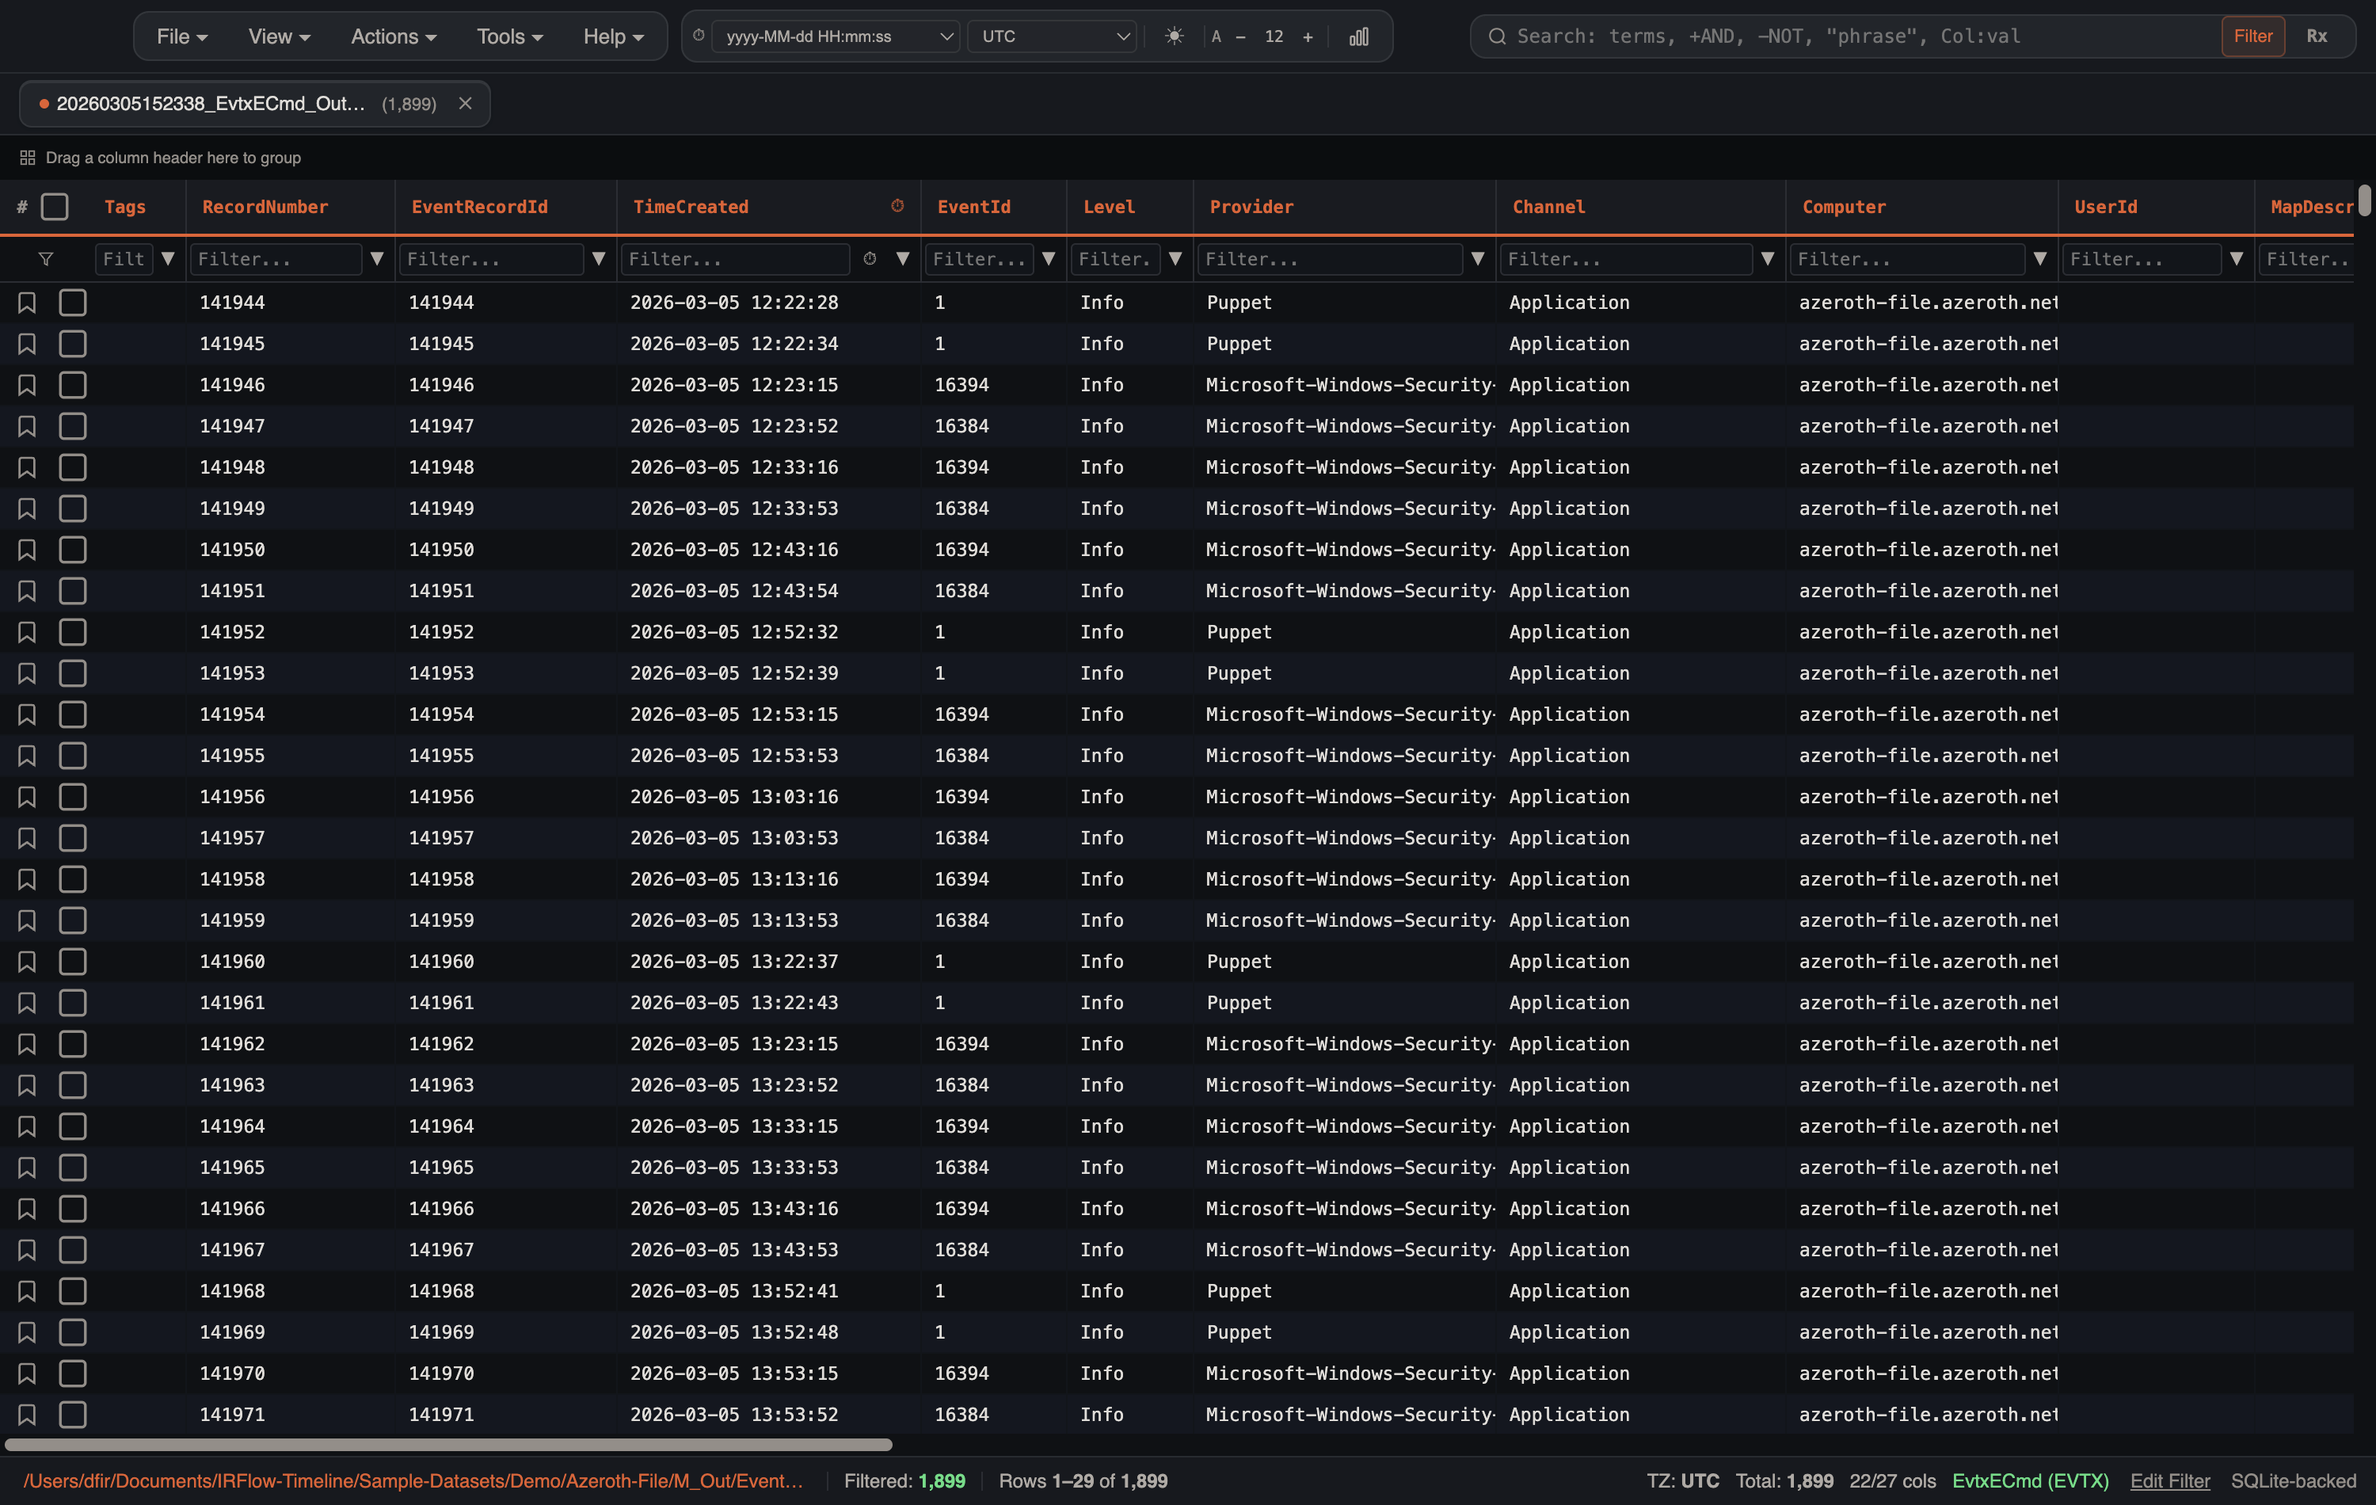
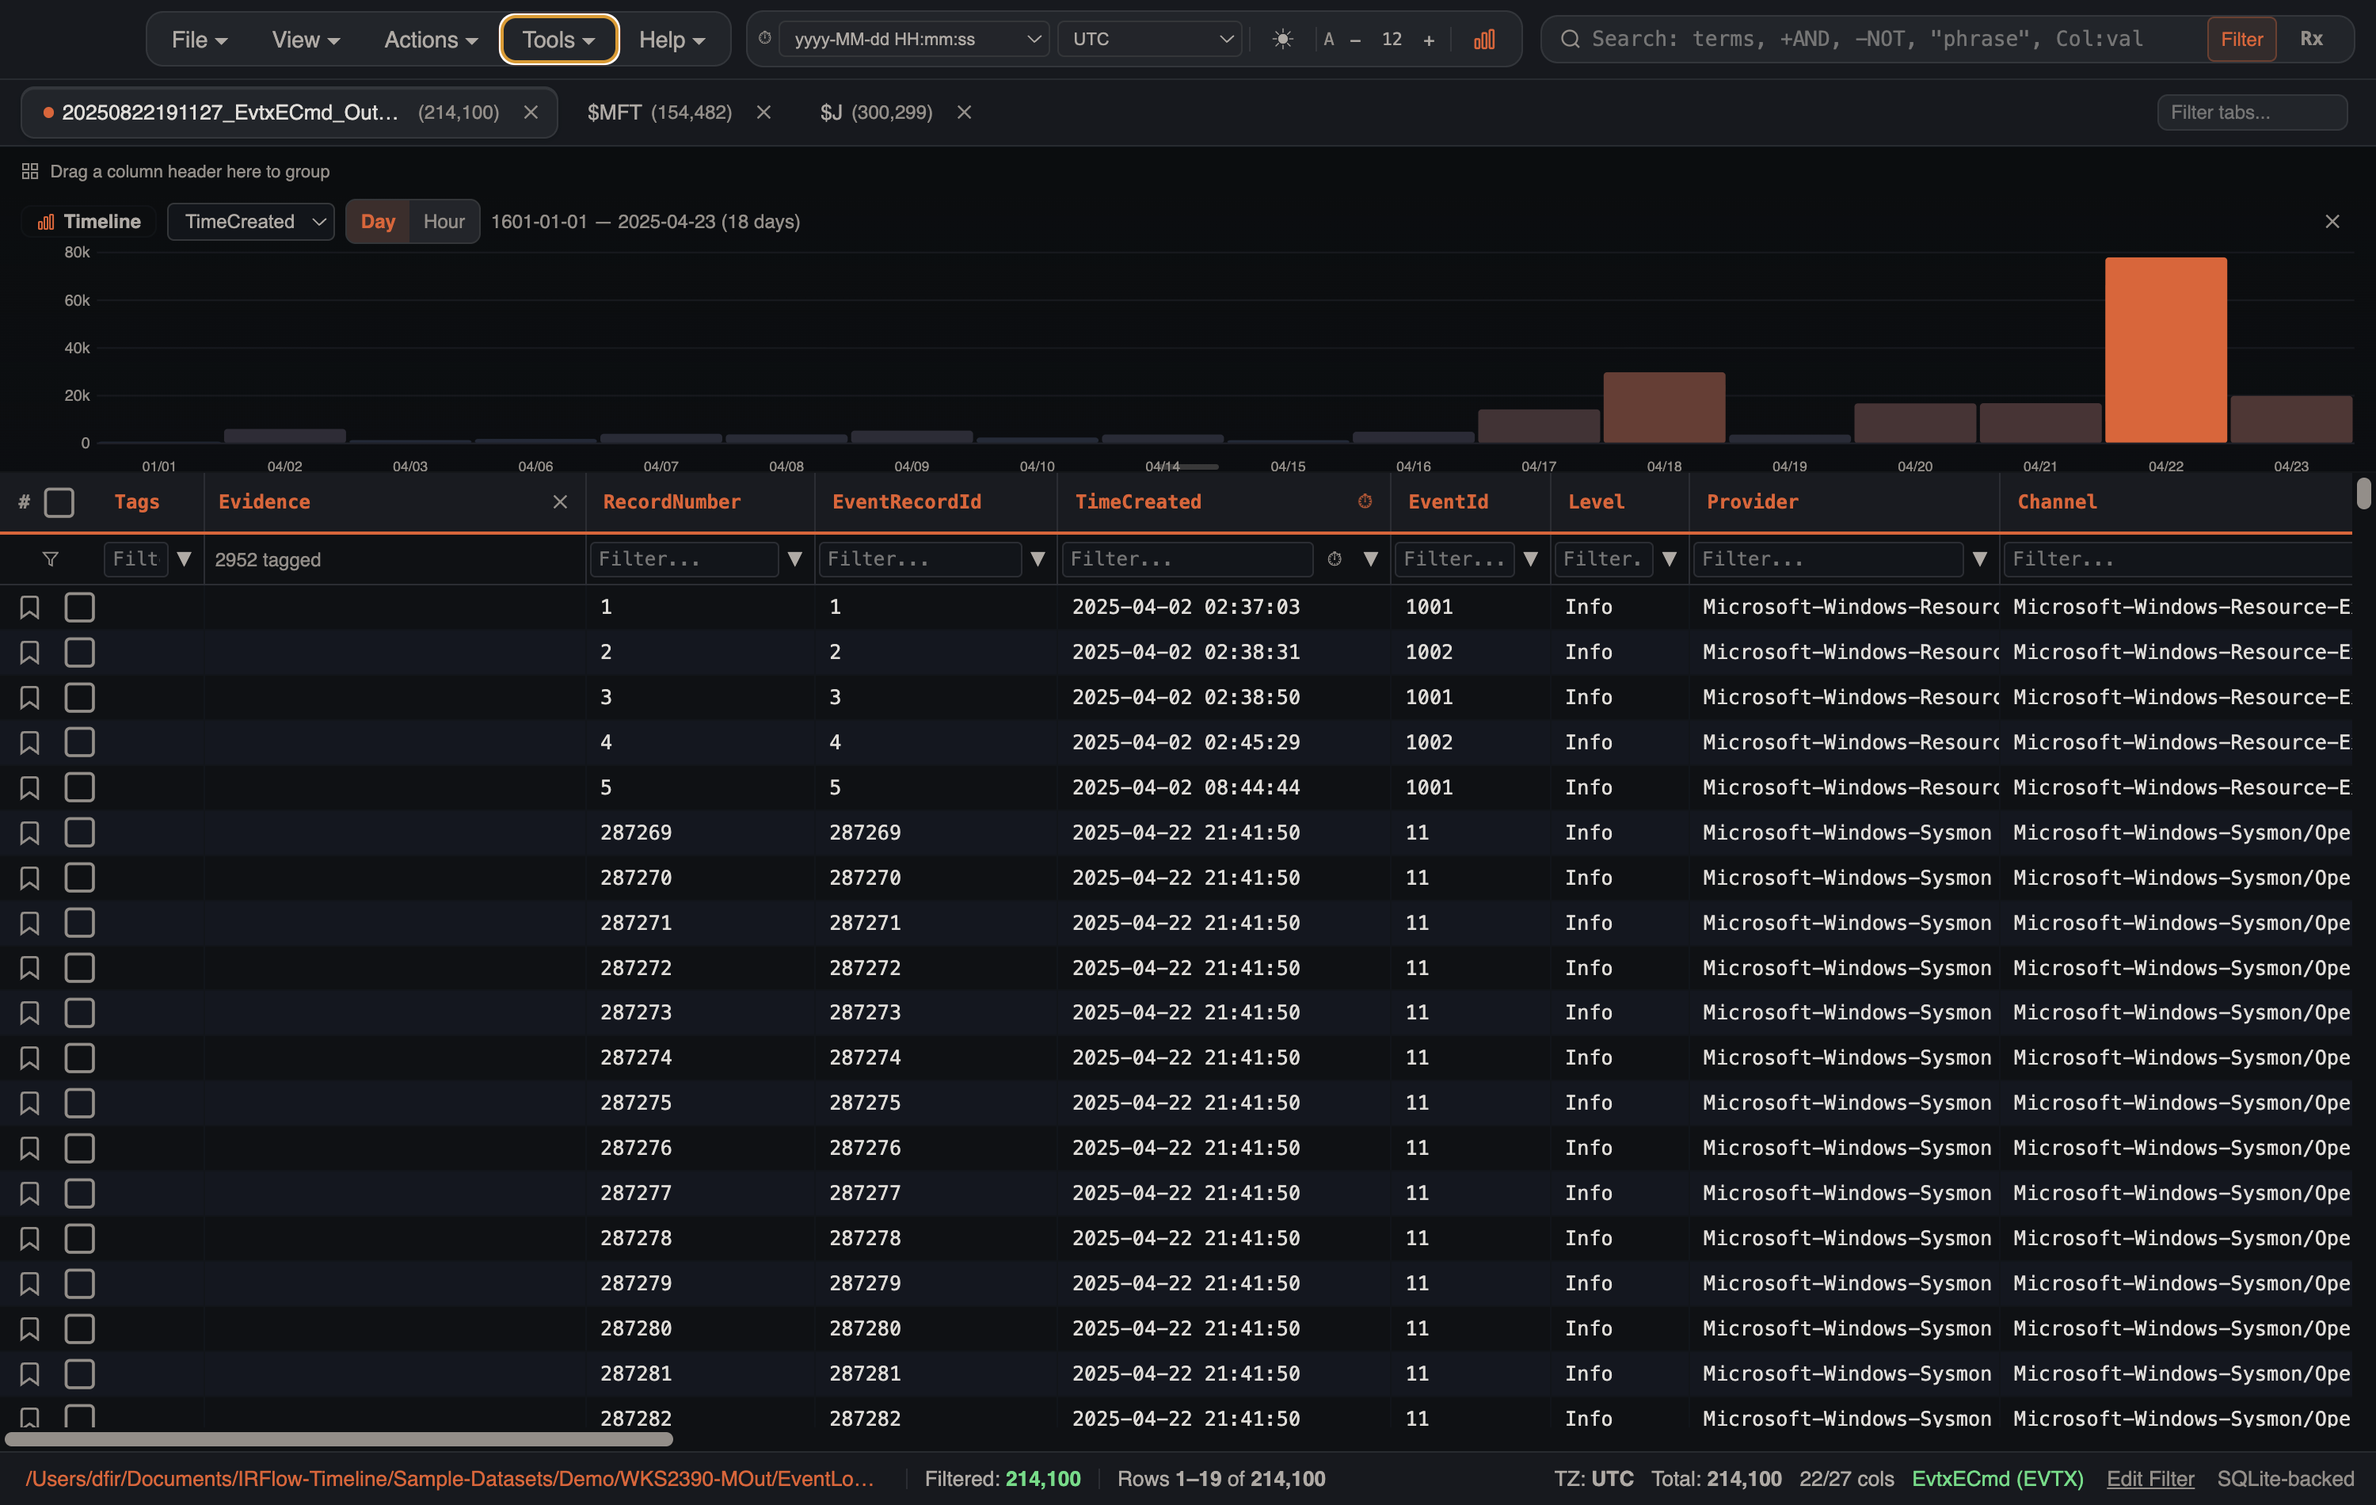
docs: recapture feature screenshots from WKS2390, U42, and Azeroth demos
Import the WKS2390 EvtxECmd timeline plus U42 $MFT/$J and replace grid,
Process Inspector, Lateral Movement, Persistence, Sigma, burst, coverage,
and NTFS shots with live results from those collections.

diff --git a/docs/features/lateral-movement.md b/docs/features/lateral-movement.md
@@ -28,7 +28,7 @@ You can also start from **File → Open Triage Collection…**, which pre-select
 
 ## Detection Rules
 
-![Lateral Movement Tracker detection rules configuration showing 15 built-in rules across RDP, Security, Privilege, Session, and RMM categories](/dfir-tips/Lateral-Movement-Detection-Rules.png)
+![Lateral Movement Tracker configuration on WKS2390 — Analyze and RDP-focused scan options before the run](/dfir-tips/Lateral-Movement-Detection-Rules.png)
 
 The tracker uses a configurable rules system with **15 built-in detection rules** across five categories. Each rule can be individually toggled on or off.
 
@@ -202,7 +202,7 @@ Click any host in the Network Graph to see that host's individual telemetry cove
 
 The tracker has seven sub-tabs (Exec Sessions and Findings only appear when detections are present). The UI tab order is: **Network Graph**, **RDP Sessions**, **Accounts**, **Chains**, **Exec Sessions**, **Connections**, **Findings**. The sections below describe each tab; numbering is independent of the UI ordering.
 
-![Lateral Movement Tracker sub-tabs including Network Graph, RDP Sessions, Accounts, Chains, Exec Sessions, Connections, and Findings with Telemetry Coverage above](/dfir-tips/Lateral-Movement-Tabs.png)
+![Lateral Movement Tracker Accounts tab on WKS2390 — 250 identities scored with successes, failures, and suspicion reasons](/dfir-tips/Lateral-Movement-Tabs.png)
 
 ### 1. Network Graph
 
@@ -210,7 +210,7 @@ The interactive force-directed visualization described above.
 
 ### 2. Findings
 
-![Lateral Movement Tracker Findings tab showing MITRE ATT&CK-mapped attack pattern detections with severity badges](/dfir-tips/Lateral-Movement-Findings.png)
+![Lateral Movement Tracker Findings on WKS2390 — LSASS access, brute force, credential compromise, and WMI persistence](/dfir-tips/Lateral-Movement-Findings.png)
 
 The Findings tab displays automated attack pattern detections with MITRE ATT&CK mapping. Each finding is a card showing severity, MITRE technique badge (clickable — links to attack.mitre.org), title, description, source/target hosts, time range, and event count.
 

diff --git a/docs/features/sigma-detection.md b/docs/features/sigma-detection.md
@@ -24,7 +24,7 @@ The modal has three top-level views, selectable from the toggle at the top:
 - **Previous Scans** — persisted scan history you can reopen
 - **Detection Settings** — engine maintenance, rule sources, and advanced defaults
 
-![Sigma Scan configuration wizard showing the New Scan / Previous Scans / Detection Settings toggle, the three-step Configure → Scan → Findings flow, the EVTX Folder / EvtxECmd Output Files / Current Timeline Tab scan targets, and a green Scan Ready panel summarizing target, engine, severity, and rule counts](/dfir-tips/Sigma-Scan-Home.png)
+![Sigma Scan ready on the WKS2390 EvtxECmd tab — Current Timeline Tab target, JS Sigma engine, 4,916 cached rules, 214,100 rows](/dfir-tips/Sigma-Scan-Home.png)
 
 The wizard walks through three steps — **Configure** (target + detection profile), **Scan** (progress), and **Findings** (results) — with a **Scan Ready** panel summarizing the chosen target, engine, severity, statuses, rule count, and row cap before you run.
 
@@ -153,7 +153,7 @@ A keyword/regex hunt over raw EVTX events, available in the wizard's **Setup det
 
 After a scan completes, results open into the **Look Here First** triage dashboard.
 
-![Sigma Scan triage dashboard showing 16 rules matched and 120 events flagged, with Dashboard / Findings / Timeline / Report tabs, Critical-High / Affected Hosts / First Seen / Last Seen summary cards, a ranked Look Here First findings list with Open Exact Hits / Tag / Bookmark / Mark Reviewed / Mark False Positive actions, Top Rules by Hits and Affected Hosts panels, and ATT&CK techniques, tactics, rare hosts, rare users, and rare processes panels](/dfir-tips/Sigma-Scan-Dashboard.png)
+![Sigma Scan triage on WKS2390 — 4 rules matched, 2,398 events flagged, Look Here First with Proc Exec and Defender hits](/dfir-tips/Sigma-Scan-Dashboard.png)
 
 The results screen has **Dashboard**, **Findings**, **Timeline**, and **Report** tabs, with export options (Export Timeline CSV, Export JSON, Export Report) and **Open All Results as Tab**.
 

diff --git a/docs/features/ntfs-analysis.md b/docs/features/ntfs-analysis.md
@@ -84,13 +84,13 @@ Each detection includes the file path, both SI and FN timestamps, the delta, and
 
 Timestomped files are auto-tagged with `Timestomp Indicator` for filtering and reporting.
 
-![Timestomping Detection results with SI vs FN deltas, severity scores, and Timestomp Indicator tags](/dfir-tips/MFT-Timestomp-Indicator.png)
+![Timestomp Indicator Review on the U42 $MFT — 46,204 indicators, 5,757 critical, bulk-stomp clusters](/dfir-tips/MFT-Timestomp-Indicator.png)
 
 ## File Activity Heatmap
 
 Visualizes MFT file creation and modification activity as a calendar heatmap, revealing temporal patterns in filesystem activity.
 
-![File Activity Heatmap showing hourly and daily buckets with day-of-week activity matrix](/dfir-tips/MFT-File-Activity-Heatmap.png)
+![File Activity Heatmap on the U42 $MFT — 116,249 creations/modifications and a 2024-11-12 burst window](/dfir-tips/MFT-File-Activity-Heatmap.png)
 
 Open via **Tools → Platforms → Windows → Master File Table → File Activity Heatmap** after importing a raw `$MFT` tab.
 
@@ -106,7 +106,7 @@ This is useful for identifying after-hours activity, automated processes (consis
 
 Scans MFT records for Alternate Data Streams (ADS), which attackers use to hide data, store payloads, or bypass detection.
 
-![ADS Analyzer dashboard with Zone.Identifier, suspicious ADS, and executable stream categories](/dfir-tips/MFT-ADS-Analyzer.png)
+![ADS Analyzer on the U42 $MFT — 128 ADS files, 101 Zone.Identifier downloads, amcache.py MOTW hit](/dfir-tips/MFT-ADS-Analyzer.png)
 
 Open via **Tools → Platforms → Windows → Master File Table → ADS Analyzer** after importing a raw `$MFT` tab with ADS-related columns.
 

diff --git a/docs/features/process-tree.md b/docs/features/process-tree.md
@@ -6,7 +6,7 @@ description: Process Inspector — parent-child process trees, multi-pass detect
 
 The Process Inspector builds parent-child process trees from **Sysmon Event ID 1** and **Windows Security Event ID 4688**, then scores execution chains with chain rules, standalone detections, prevalence, binary trust, lifetime, injection, and privilege-use correlation. Results open as **Story / Triage / Hunt / Graph / Raw** views plus a **Rules** health report, with analyst suppressions, custom rules, and one-click pivots into the main grid and other IRFlow features.
 
-![Process Inspector configuration — tree-ready mapping, detection technique groups, Sysmon and Security coverage, and Build Tree](/dfir-tips/Process-Tree-Analyzer-Sysmon.png)
+![Process Inspector Story view on WKS2390 Sysmon — 81 stories, GUID-linked tree, cmd.exe and DumpIt.exe chains](/dfir-tips/Process-Tree-Analyzer-Sysmon.png)
 
 ## Opening the Process Inspector
 

diff --git a/docs/features/persistence-analyzer.md b/docs/features/persistence-analyzer.md
@@ -6,7 +6,7 @@ description: Persistence Analyzer — 36 EVTX and 33 registry detection rules wi
 
 The Persistence Analyzer automatically scans your timeline data for Windows persistence mechanisms, scoring each finding by risk level and organizing results by category. It supports both EVTX event logs and registry exports (RECmd CSV and similar), with **69 built-in rule definitions** — **36 EVTX event-log rules** and **33 registry key-family rules** — across services, scheduled tasks, WMI subscriptions, autorun keys, and related locations.
 
-![Persistence Analyzer showing 8648 findings in Timeline view with severity scores, service installations, and category filtering](/dfir-tips/Persistence-Analyzer.png)
+![Persistence Analyzer on WKS2390 — 763 incidents, 5 critical, grouped alerts with MITRE T1547.001 / T1053.005](/dfir-tips/Persistence-Analyzer.png)
 
 ## Opening the Persistence Analyzer
 

diff --git a/docs/dfir-tips/lateral-movement-tracing.md b/docs/dfir-tips/lateral-movement-tracing.md
@@ -100,7 +100,7 @@ Sort stacking results in ascending order to surface values that appear only once
 
 Navigate to **Tools → Platforms → Windows → Lateral Movement Tracker** to open the [Lateral Movement Tracker](/features/lateral-movement). The tracker automatically parses your logon events and builds an interactive network graph.
 
-![Lateral Movement Tracker network graph showing host-to-host logon connections with RDP, Network, and Interactive connection types](/dfir-tips/lateral-movement-tracker.png)
+![Lateral Movement Tracker network graph on WKS2390 — HYPSQDB / WKSIT01 outliers pivoting to WKS2390](/dfir-tips/lateral-movement-tracker.png)
 
 In the graph view:
 

diff --git a/docs/features/virtual-grid.md b/docs/features/virtual-grid.md
@@ -6,7 +6,7 @@ description: Virtual scrolling data grid with SQLite pagination — view and int
 
 The data grid is the primary interface for viewing and interacting with timeline data. It uses virtual scrolling backed by SQLite pagination to handle millions of rows without performance degradation.
 
-![Virtual Grid displaying EvtxECmd timeline data with the File / View / Actions / Tools / Help menu capsule and sortable columns](/dfir-tips/Virtual-Grid.png)
+![Virtual Grid on the WKS2390 EvtxECmd timeline (214,100 rows) with histogram, $MFT and $J tabs, and the File / View / Actions / Tools / Help capsule](/dfir-tips/Virtual-Grid.png)
 
 ## Menu Bar
 

diff --git a/docs/features/log-source-coverage.md b/docs/features/log-source-coverage.md
@@ -6,7 +6,7 @@ description: Log source coverage map — Gantt-style visualization of evidence c
 
 Log Source Coverage provides a Gantt-style visualization of which log sources are present across your timeline, their time spans, and event counts — helping you identify collection gaps and verify evidence completeness.
 
-![Log Source Coverage Map showing coverage timeline across 138 log sources with event counts and time spans](/dfir-tips/Log-Source-Coverage.png)
+![Log Source Coverage Map on WKS2390 — 177 sources, 214,098 events, Sysmon / Security / TaskScheduler bars](/dfir-tips/Log-Source-Coverage.png)
 
 ## Opening Log Source Coverage
 

diff --git a/docs/features/gap-burst-analysis.md b/docs/features/gap-burst-analysis.md
@@ -6,7 +6,7 @@ description: Gap and burst analysis — detect unusual inactivity periods or sus
 
 Gap and burst analysis help you identify temporal anomalies in your timeline — periods of unusual inactivity or suspicious spikes of activity.
 
-![Event Burst Detection showing 9 detected bursts with event rate over time chart and burst multipliers](/dfir-tips/Burst-Detection.png)
+![Event Burst Detection on WKS2390 — 175 bursts, 17,872 peak events / 5 min, 62× first burst](/dfir-tips/Burst-Detection.png)
 
 - **Gap Analysis:** **Tools → Analysis → Gap Analysis**
 - **Burst Detection:** **Tools → Analysis → Burst Detection**

diff --git a/docs/features/histogram.md b/docs/features/histogram.md
@@ -6,7 +6,7 @@ description: Interactive timeline histogram with heatmap coloring, brush-to-filt
 
 The histogram provides a visual timeline of event distribution, helping you identify activity patterns, quiet periods, and suspicious bursts at a glance.
 
-![Histogram showing daily event distribution with multi-source coloring across a 37-day Sysmon timeline](/dfir-tips/Histogram.png)
+![Histogram above the WKS2390 EvtxECmd grid — daily buckets across the 2025-04-02 to 2025-04-23 investigation window](/dfir-tips/Histogram.png)
 
 ## Opening the Histogram
 

diff --git a/docs/features/search-filtering.md b/docs/features/search-filtering.md
@@ -6,7 +6,7 @@ description: Five search modes — full-text, regex, fuzzy, LIKE, and mixed — 
 
 IRFlow Timeline provides multiple search modes and filter types to help you find exactly what you need in massive timelines.
 
-![Search and Filtering interface showing a Mixed-mode search for powershell with condition radios and match counts](/dfir-tips/Search-Filtering.png)
+![Mixed-mode search for cmd.exe on the WKS2390 EvtxECmd timeline — 7,719 hits, condition radios, and histogram](/dfir-tips/Search-Filtering.png)
 
 ## Search Modes
 

diff --git a/docs/getting-started/quick-start.md b/docs/getting-started/quick-start.md
@@ -26,7 +26,7 @@ Each card opens the relevant analyzer or file dialog. Cards that need an importe
 
 ## Import Progress
 
-![Import progress bar showing rows imported, file name, and streaming status while a large timeline loads](/dfir-tips/QuickStart-Import-Progress.png)
+![Import of the WKS2390 EvtxECmd timeline — 145,560 rows / 70% streamed, UI stays on the import canvas](/dfir-tips/QuickStart-Import-Progress.png)
 
 During import you will see:
 
